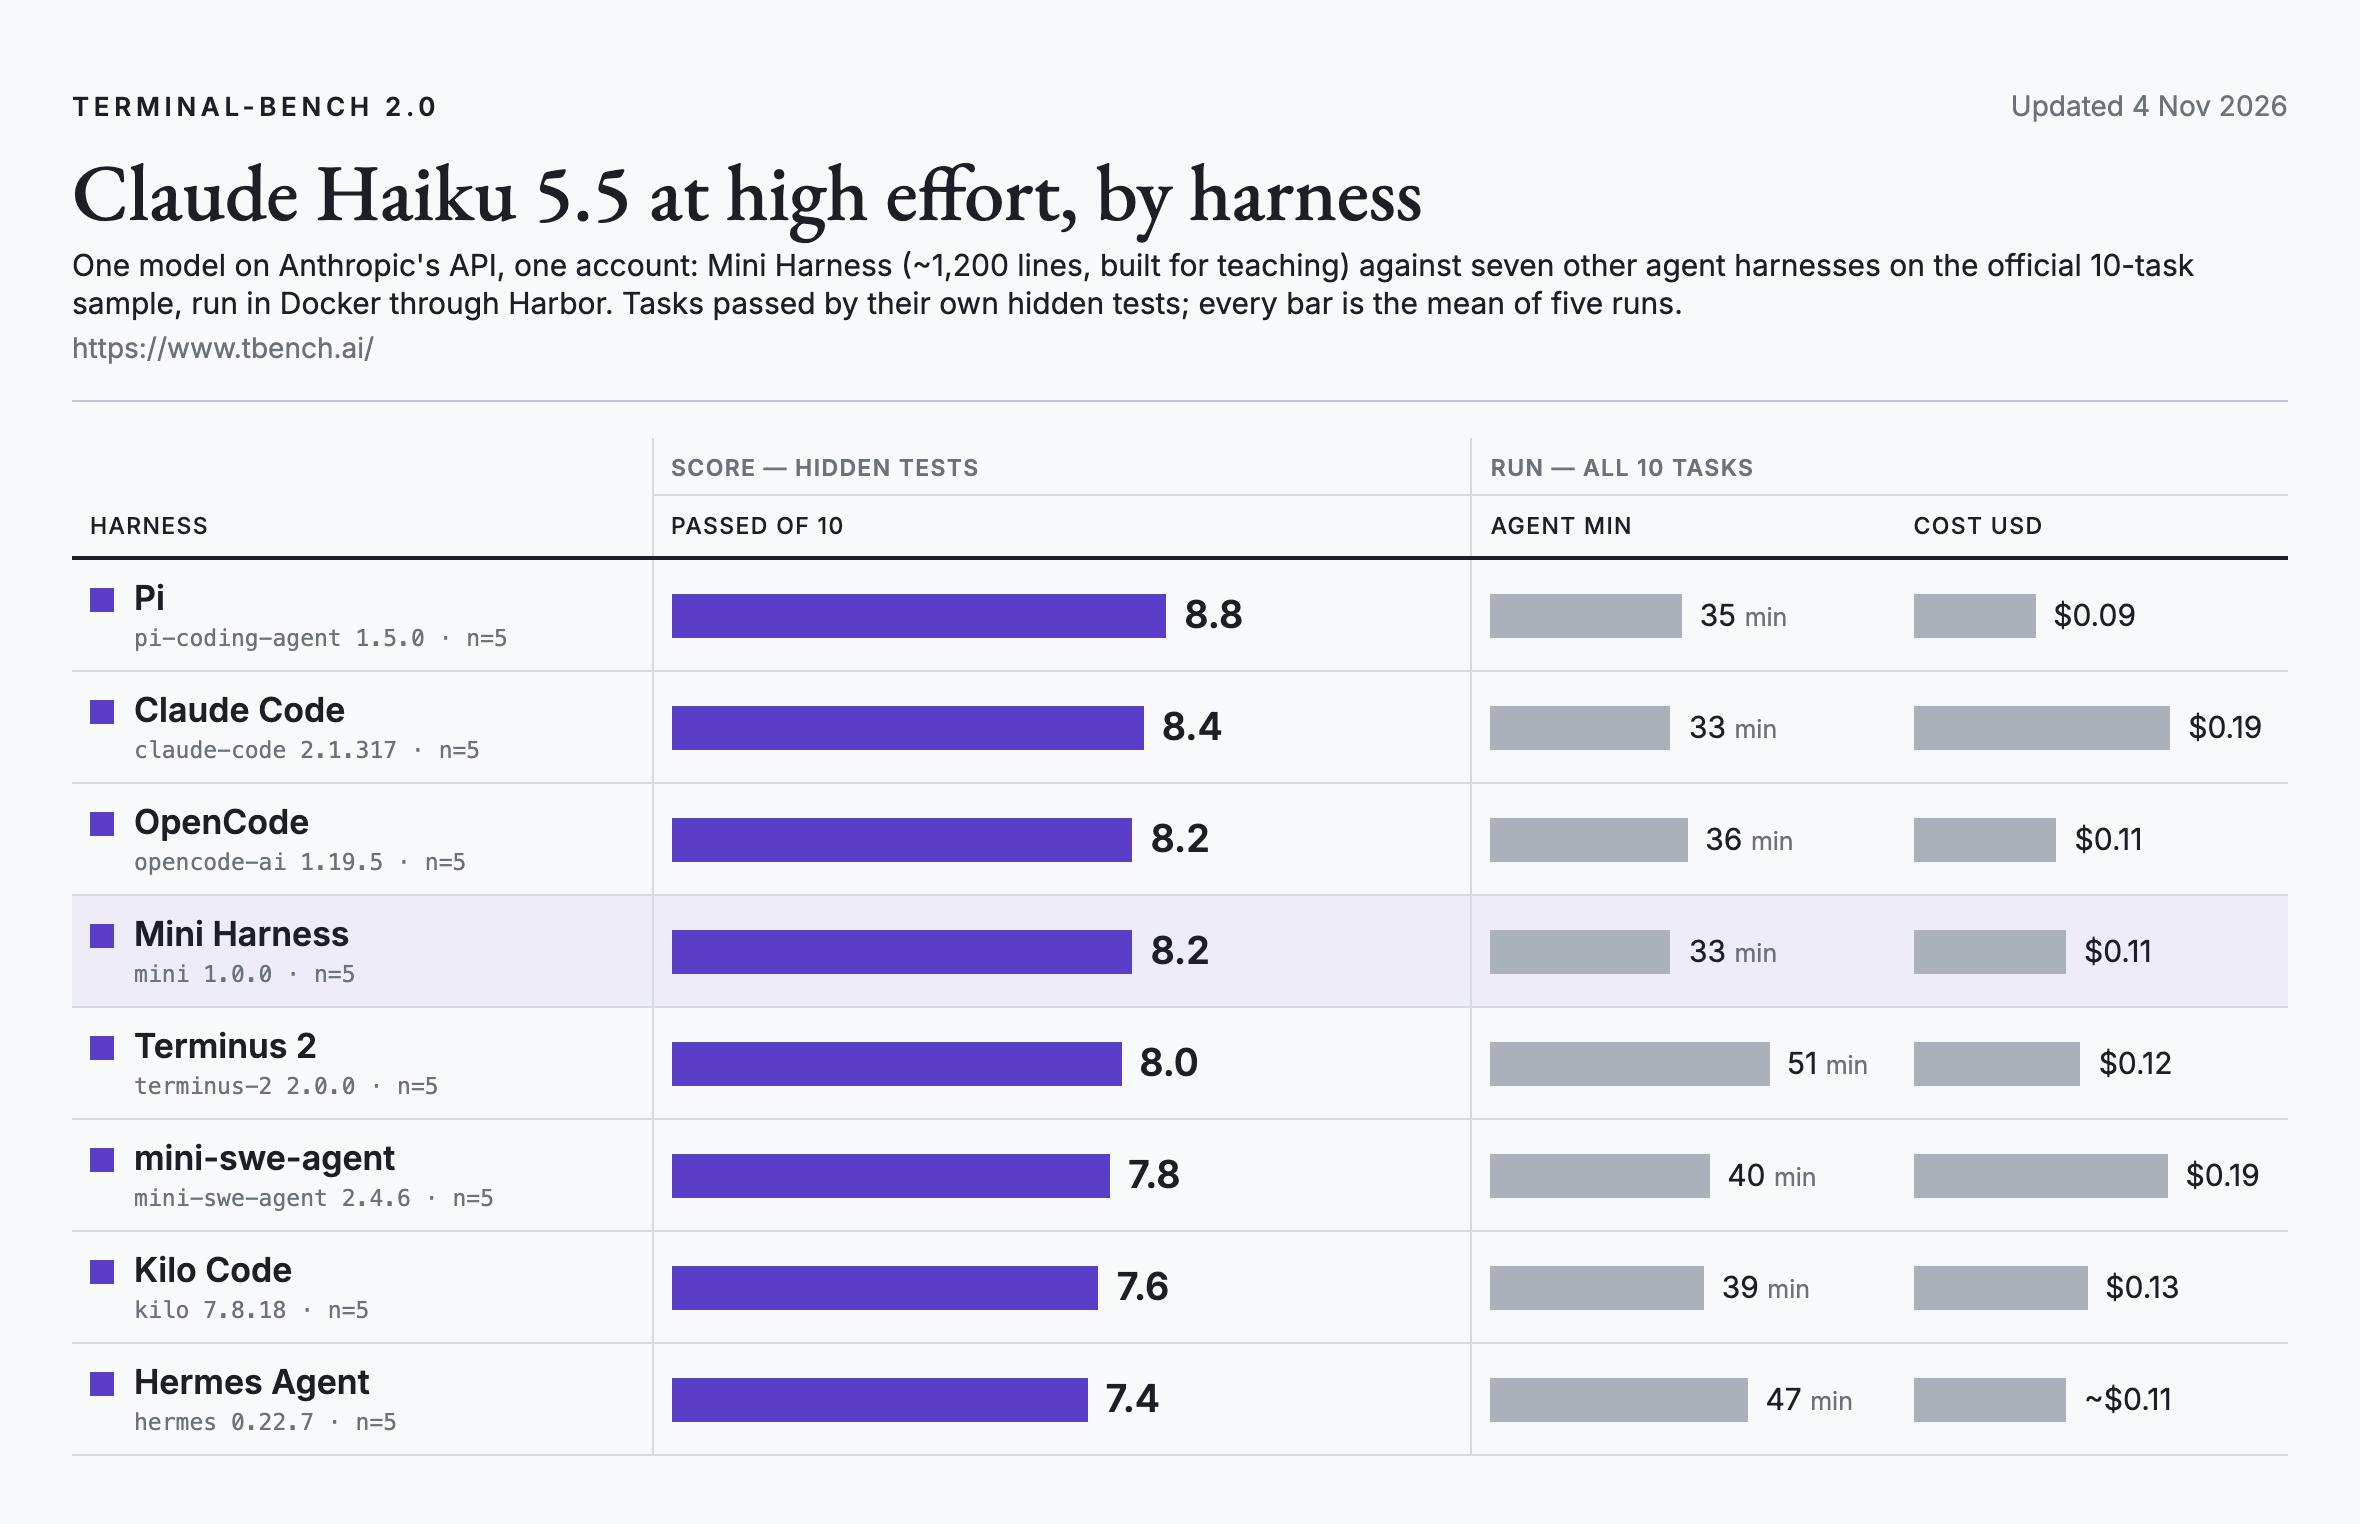
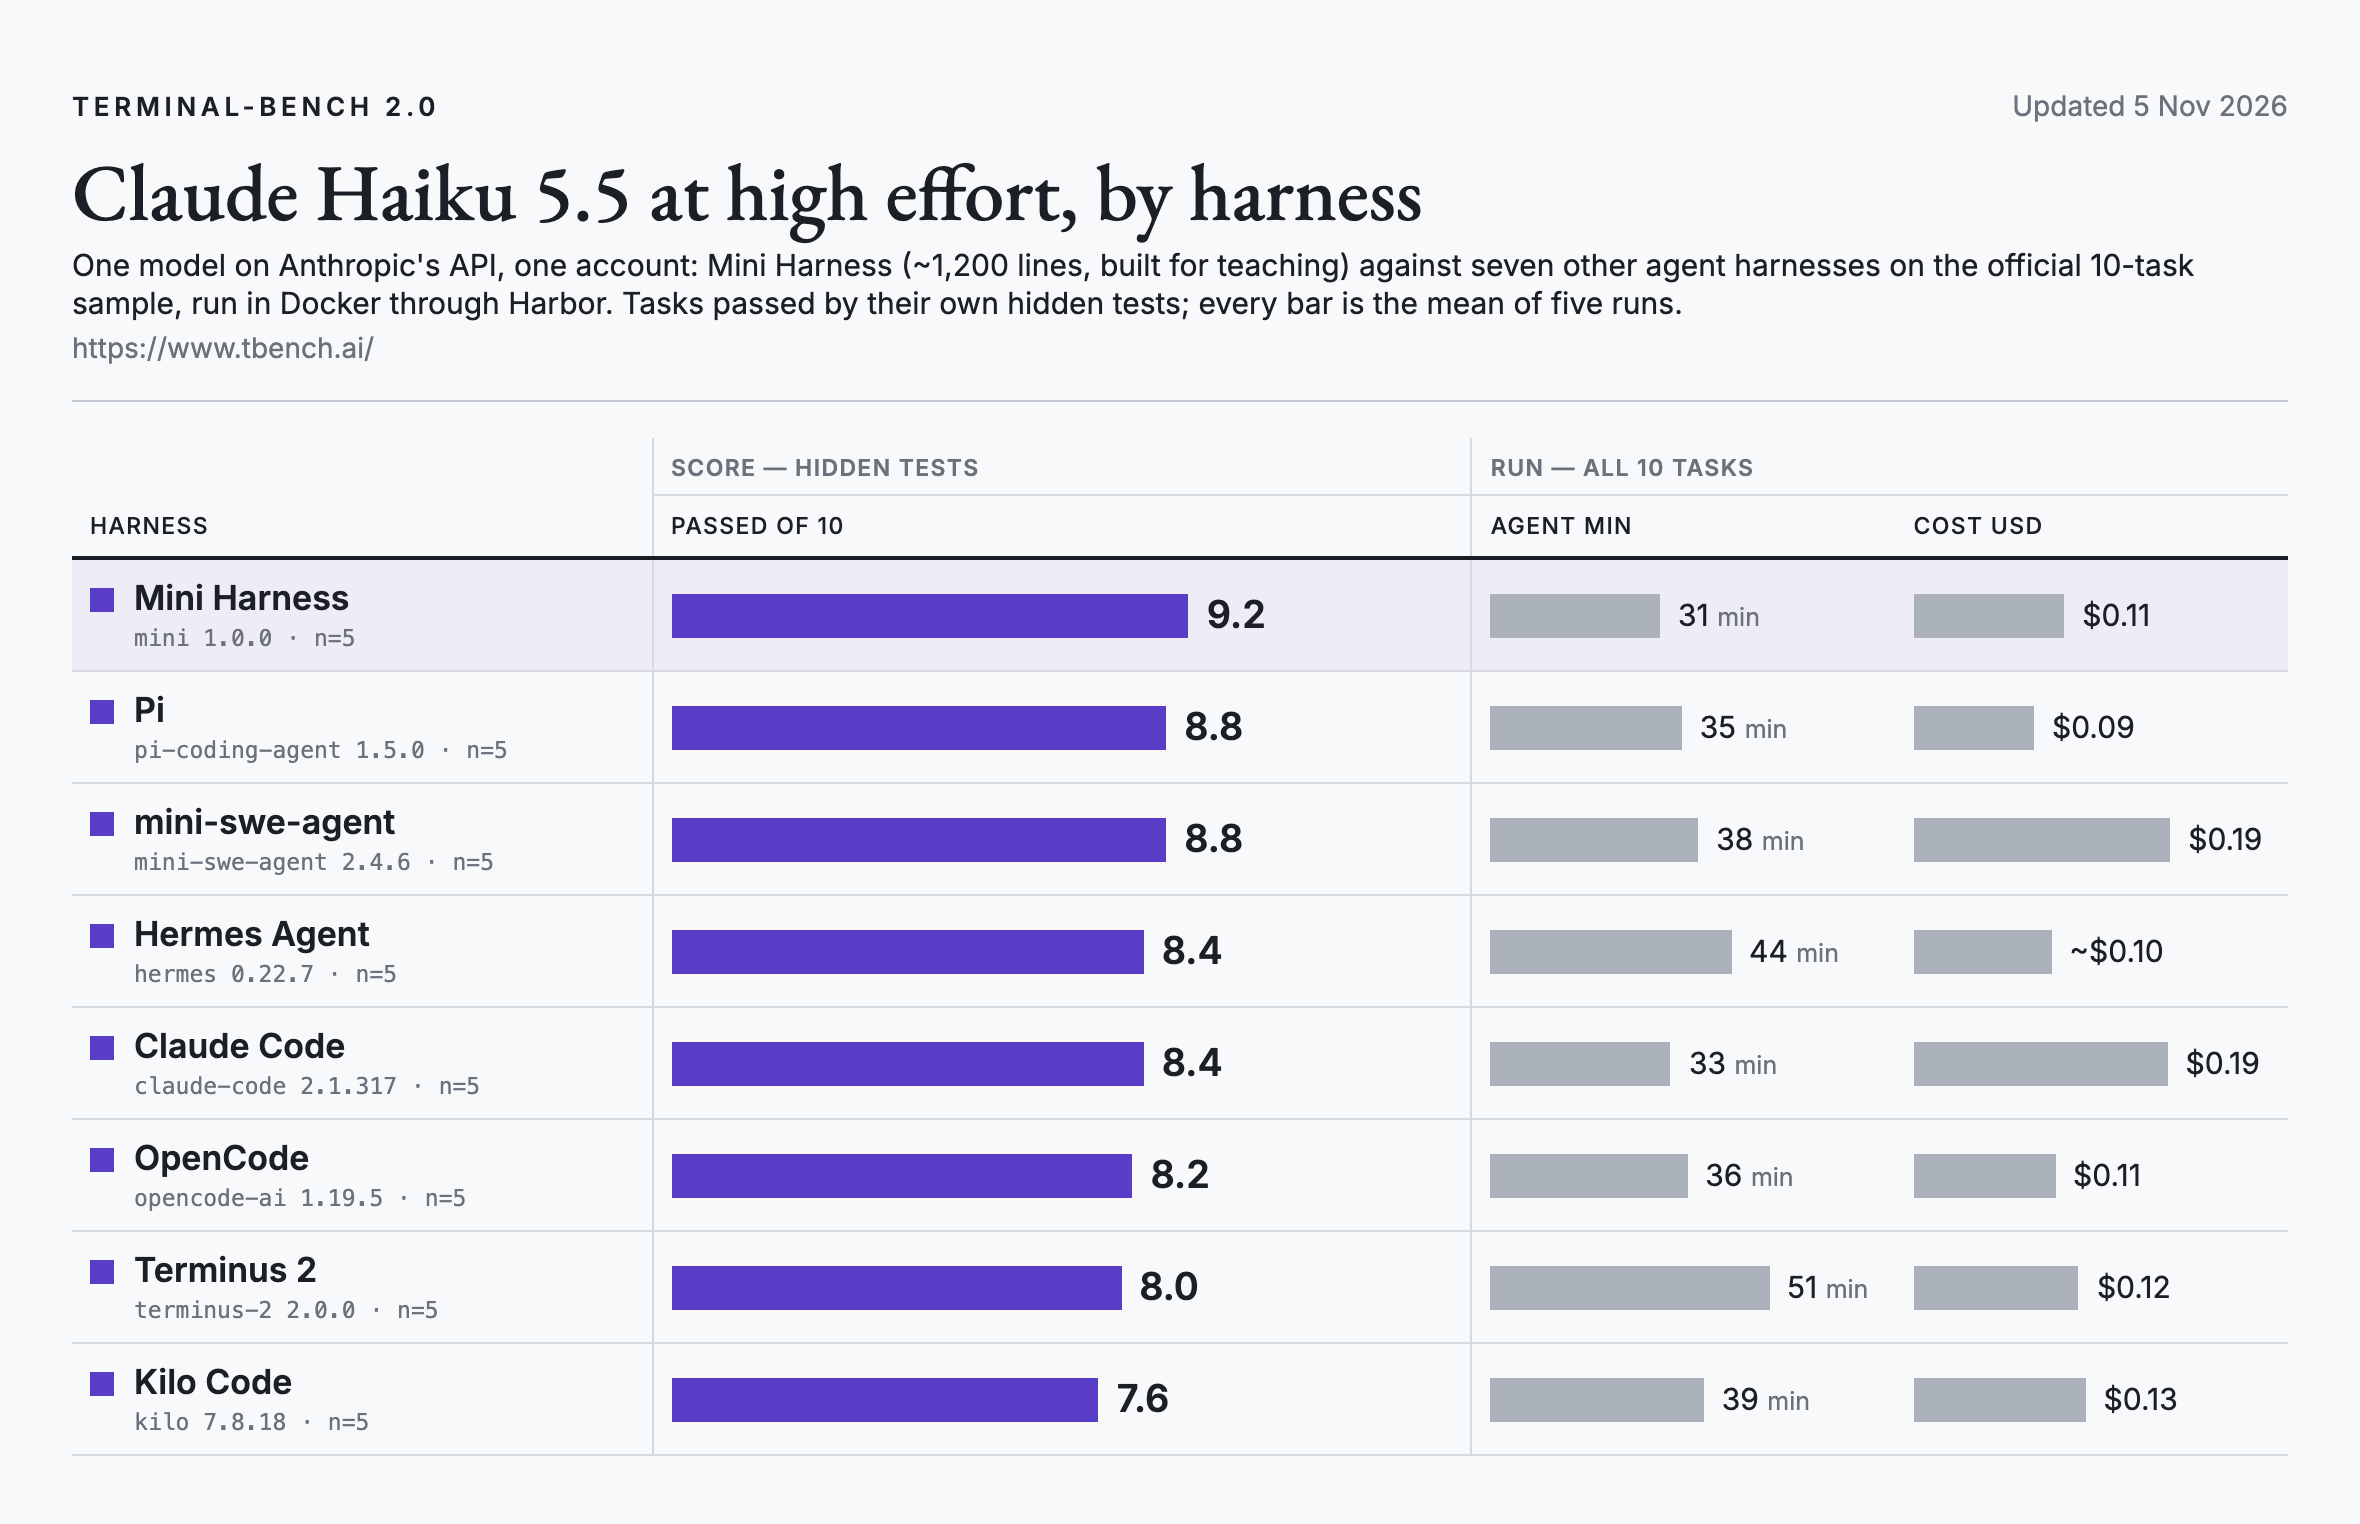
README: Terminal-Bench 2.0 on Claude Haiku 5.5 and DeepSeek V4.1 Flash after re-running build-cython-ext for the three uv-installed harnesses (their uv Python hijacked the hidden test): 9.2 and 8.4

diff --git a/README.md b/README.md
@@ -56,18 +56,23 @@ As of November 2026. Pi is built to be extended; mini is built to be read.
 
 ### On Terminal-Bench 2.0
 
-[Terminal-Bench 2.0](https://www.tbench.ai/) gives an agent a job in a Docker container, such as building a Cython extension, setting up a git web server or booting an Alpine VM in QEMU, and checks the result with hidden tests. On its official 10-task sample, run through Harbor with Claude Haiku 5.5 at high effort for every harness, [mini 1.0.0](https://github.com/phuryn/mini-harness/tree/767a0b4) passed 8.2 tasks on average over five runs, tied with OpenCode and behind Pi (8.8) and Claude Code (8.4), in 33 agent minutes and for $0.11 a run. Some runs were on a Mac and the rest on x86 Linux, with the same harness versions.
+[Terminal-Bench 2.0](https://www.tbench.ai/) gives an agent a job in a Docker container, such as building a Cython extension, setting up a git web server or booting an Alpine VM in QEMU, and checks the result with hidden tests. On its official 10-task sample, run through Harbor with the same model for every harness, five runs each, [mini 1.0.0](https://github.com/phuryn/mini-harness/tree/767a0b4) passed:
+
+- **Claude Haiku 5.5 at high effort:** 9.2 of 10 on average, the highest of eight harnesses, ahead of Pi and mini-swe-agent (8.8), in 31 agent minutes and for $0.11 a run.
+- **DeepSeek V4.1 Flash at high effort**, on DeepSeek's own API: 8.4, level with Claude Code and Hermes Agent, behind mini-swe-agent (8.8) and OpenCode (8.6). Cost is each harness's tokens at DeepSeek's list price.
+
+Gaps under about one task are within run-to-run noise: a single harness moved by up to four tasks between runs. Some Claude runs were on a Mac and the rest on x86 Linux, with the same harness versions.
+
+One task was re-run. In build-cython-ext, the hidden test runs `uv run pytest`, and uv prefers any uv-managed Python over the system one. The three harnesses that install through uv (Mini Harness, mini-swe-agent, Hermes Agent) left such a Python behind, so 10 of 11 checks passed and the last one ran in an interpreter without pytest: 0 of 5 for all three, on both models. With their Pythons installed elsewhere (`UV_PYTHON_INSTALL_DIR`), all three passed 5 of 5 on both models. Every other result is from the original runs; the raw results and both summaries are kept.
 
 <picture>
   <source media="(prefers-color-scheme: dark)" srcset="docs/img/terminal-bench-dark.png">
-  <img src="docs/img/terminal-bench-light.png" alt="Terminal-Bench 2.0, Claude Haiku 5.5 at high effort, mean tasks passed of 10 over five runs, with agent minutes and cost per run: Pi 8.8 (35 min, $0.09), Claude Code 8.4 (33 min, $0.19), OpenCode 8.2 (36 min, $0.11), Mini Harness 8.2 (33 min, $0.11), Terminus 2 8.0 (51 min, $0.12), mini-swe-agent 7.8 (40 min, $0.19), Kilo Code 7.6 (39 min, $0.13), Hermes Agent 7.4 (47 min, about $0.11, estimated from tokens).">
+  <img src="docs/img/terminal-bench-light.png" alt="Terminal-Bench 2.0, Claude Haiku 5.5 at high effort, mean tasks passed of 10 over five runs, with agent minutes and cost per run: Mini Harness 9.2 (31 min, $0.11), Pi 8.8 (35 min, $0.09), mini-swe-agent 8.8 (38 min, $0.19), Hermes Agent 8.4 (44 min, ~$0.10), Claude Code 8.4 (33 min, $0.19), OpenCode 8.2 (36 min, $0.11), Terminus 2 8.0 (51 min, $0.12), Kilo Code 7.6 (39 min, $0.13).">
 </picture>
-
-On DeepSeek V4.1 Flash at high effort, on DeepSeek's own API with the same tasks, harness versions and five runs, mini 1.0.0 passed 7.4, tied with Hermes Agent for last. OpenCode led with 8.6, then Claude Code (8.4), Pi and Terminus 2 (8.2). On both models, build-cython-ext failed in every run for the three harnesses installed with uv (Mini Harness, mini-swe-agent, Hermes Agent): the install left uv's own Python first on the path, so the hidden test ran `python -m pytest` in an interpreter without pytest. A re-run with that fixed is next.
 
 <picture>
   <source media="(prefers-color-scheme: dark)" srcset="docs/img/terminal-bench-deepseek-dark.png">
-  <img src="docs/img/terminal-bench-deepseek-light.png" alt="Terminal-Bench 2.0, DeepSeek V4.1 Flash at high effort, mean tasks passed of 10 over five runs, with agent minutes and cost per run at DeepSeek's list price: OpenCode 8.6 (33 min, $0.08), Claude Code 8.4 (39 min, $0.32), Pi 8.2 (40 min, $0.24), Terminus 2 8.2 (50 min, $0.47), Kilo Code 8.0 (31 min, $0.11), mini-swe-agent 7.8 (43 min, $0.32), Hermes Agent 7.4 (46 min, $0.24), Mini Harness 7.4 (42 min, $0.32).">
+  <img src="docs/img/terminal-bench-deepseek-light.png" alt="Terminal-Bench 2.0, DeepSeek V4.1 Flash at high effort, cost at DeepSeek list price, mean tasks passed of 10 over five runs, with agent minutes and cost per run: mini-swe-agent 8.8 (43 min, $0.31), OpenCode 8.6 (33 min, $0.08), Hermes Agent 8.4 (45 min, $0.22), Mini Harness 8.4 (39 min, $0.31), Claude Code 8.4 (39 min, $0.32), Pi 8.2 (40 min, $0.24), Terminus 2 8.2 (50 min, $0.47), Kilo Code 8.0 (31 min, $0.11).">
 </picture>
 
 ## Install
